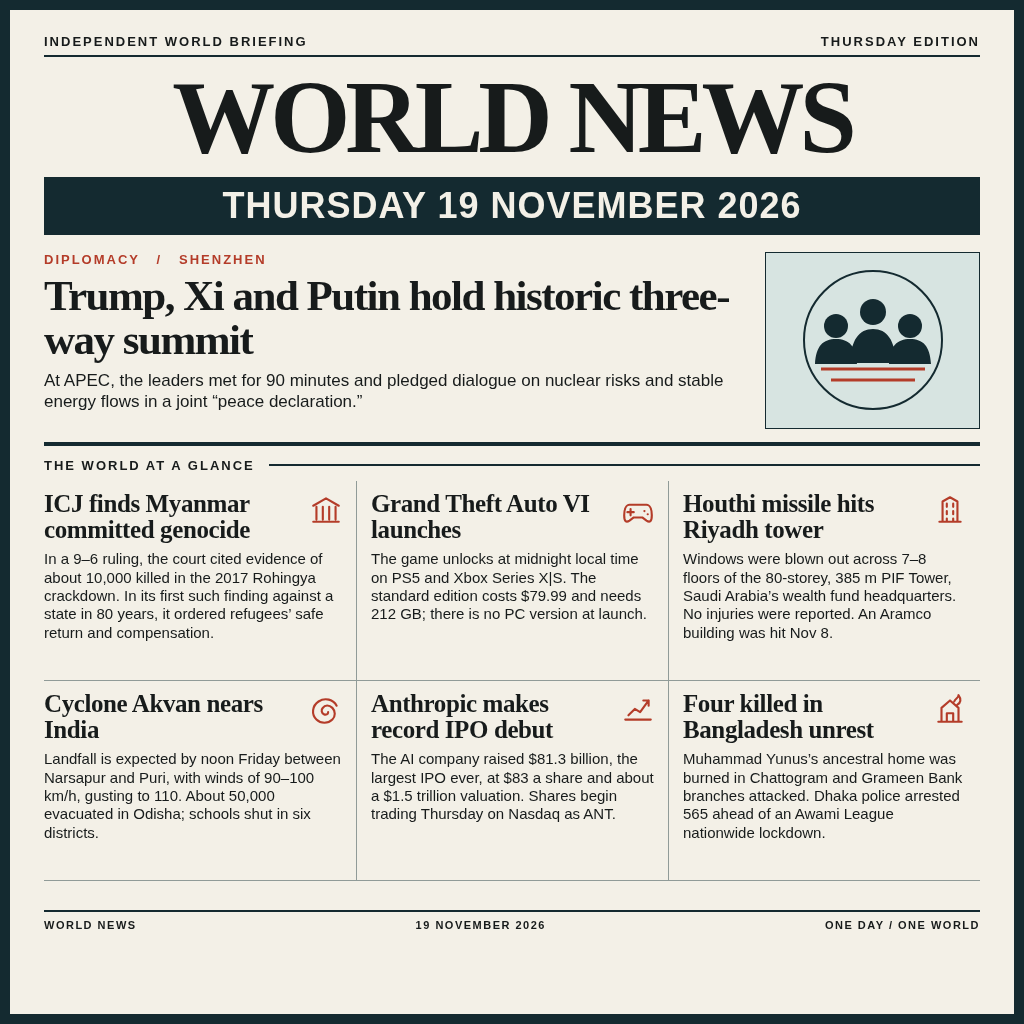
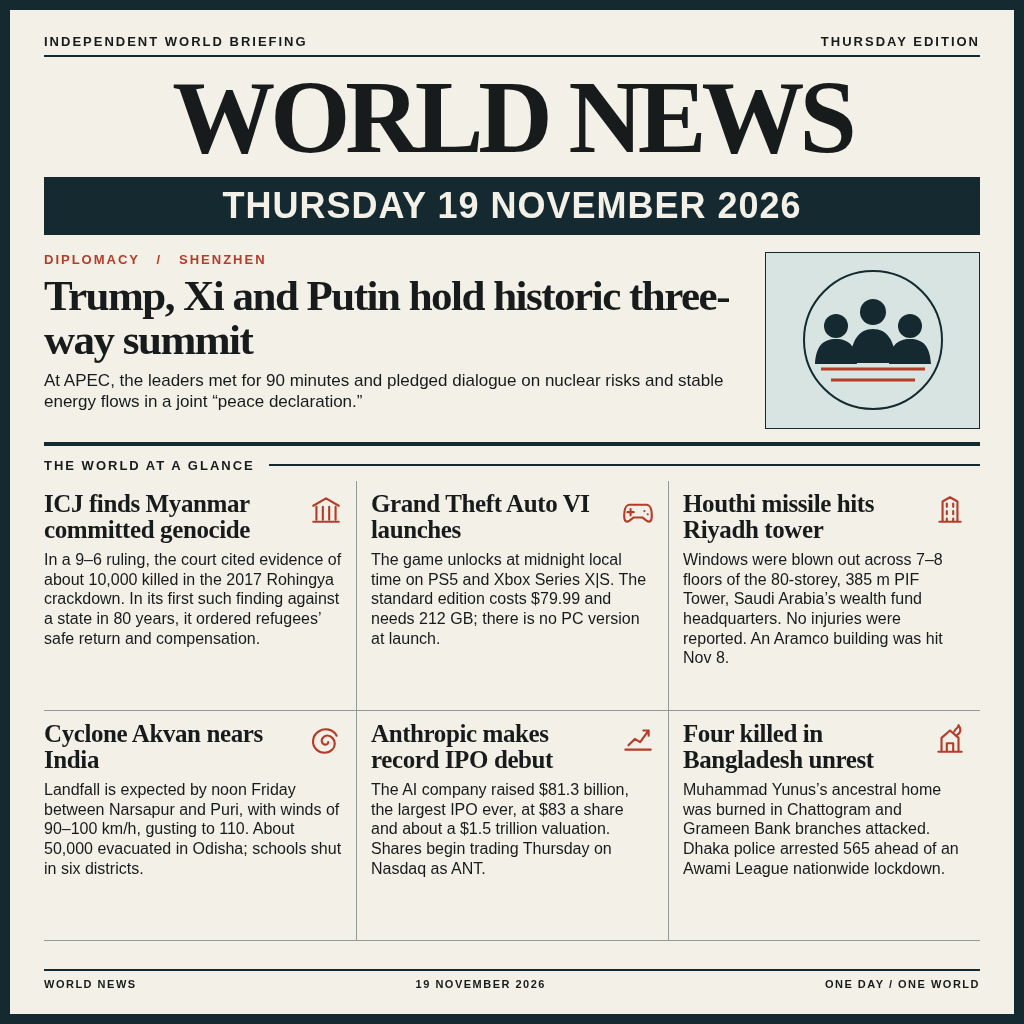
Fill the page: taller story rows, larger deck text, lower footer

diff --git a/news.html b/news.html
@@ -1,7 +1,7 @@
 <!doctype html>
 <html lang="en"><head><meta charset="utf-8"><title>World News — 19 November 2026</title>
 <style>
-*{box-sizing:border-box}body{margin:0;background:#142a30;color:#171b1b;font-family:Arial,sans-serif}.page{position:relative;margin:10px;width:1004px;height:1004px;background:#f3f0e7;padding:24px 34px}.top{display:flex;justify-content:space-between;border-bottom:2px solid #142a30;padding-bottom:6px;font-size:13px;letter-spacing:2px;font-weight:bold}h1{font: bold 103px/.98 Georgia,serif;letter-spacing:-5px;text-align:center;margin:10px 0 9px}.date{background:#142a30;color:#f3f0e7;text-align:center;font-size:36px;line-height:58px;font-weight:800;letter-spacing:1px}.lead{display:grid;grid-template-columns:1fr 215px;gap:25px;padding:17px 0 13px;border-bottom:4px solid #142a30}.kicker{color:#b43c29;font-size:13px;letter-spacing:2px;font-weight:bold;margin-bottom:7px}.lead h2{font:bold 43px/1.02 Georgia,serif;letter-spacing:-1.5px;margin:0 0 9px}.lead p{font-size:17px;line-height:1.23;margin:0}.art{height:177px;background:#d7e4e1;border:1px solid #142a30;display:flex;align-items:center;justify-content:center}.section{display:flex;align-items:center;gap:14px;margin:12px 0 8px;font-size:13px;letter-spacing:2px;font-weight:bold}.section:after{content:'';height:2px;background:#142a30;flex:1}.grid{display:grid;grid-template-columns:repeat(3,1fr);grid-template-rows:200px 200px}.story{padding:10px 14px 8px 0;border-bottom:1px solid #909b98;position:relative}.story:not(:nth-child(3n+1)){border-left:1px solid #909b98;padding-left:14px}.story h3{font:bold 25px/1.03 Georgia,serif;letter-spacing:-.4px;margin:0 42px 8px 0}.story p{font-size:15px;line-height:1.22;margin:0}.icon{position:absolute;right:13px;top:12px;width:34px;height:34px;stroke:#b43c29;fill:none;stroke-width:2;stroke-linecap:round;stroke-linejoin:round}.footer{position:absolute;bottom:83px;left:34px;right:34px;border-top:2px solid #142a30;padding-top:7px;display:flex;justify-content:space-between;font-size:11px;font-weight:bold;letter-spacing:1.5px}
+*{box-sizing:border-box}body{margin:0;background:#142a30;color:#171b1b;font-family:Arial,sans-serif}.page{position:relative;margin:10px;width:1004px;height:1004px;background:#f3f0e7;padding:24px 34px}.top{display:flex;justify-content:space-between;border-bottom:2px solid #142a30;padding-bottom:6px;font-size:13px;letter-spacing:2px;font-weight:bold}h1{font: bold 103px/.98 Georgia,serif;letter-spacing:-5px;text-align:center;margin:10px 0 9px}.date{background:#142a30;color:#f3f0e7;text-align:center;font-size:36px;line-height:58px;font-weight:800;letter-spacing:1px}.lead{display:grid;grid-template-columns:1fr 215px;gap:25px;padding:17px 0 13px;border-bottom:4px solid #142a30}.kicker{color:#b43c29;font-size:13px;letter-spacing:2px;font-weight:bold;margin-bottom:7px}.lead h2{font:bold 43px/1.02 Georgia,serif;letter-spacing:-1.5px;margin:0 0 9px}.lead p{font-size:17px;line-height:1.23;margin:0}.art{height:177px;background:#d7e4e1;border:1px solid #142a30;display:flex;align-items:center;justify-content:center}.section{display:flex;align-items:center;gap:14px;margin:12px 0 8px;font-size:13px;letter-spacing:2px;font-weight:bold}.section:after{content:'';height:2px;background:#142a30;flex:1}.grid{display:grid;grid-template-columns:repeat(3,1fr);grid-template-rows:230px 230px}.story{padding:10px 14px 8px 0;border-bottom:1px solid #909b98;position:relative}.story:not(:nth-child(3n+1)){border-left:1px solid #909b98;padding-left:14px}.story h3{font:bold 25px/1.03 Georgia,serif;letter-spacing:-.4px;margin:0 42px 8px 0}.story p{font-size:16px;line-height:1.22;margin:0}.icon{position:absolute;right:13px;top:12px;width:34px;height:34px;stroke:#b43c29;fill:none;stroke-width:2;stroke-linecap:round;stroke-linejoin:round}.footer{position:absolute;bottom:24px;left:34px;right:34px;border-top:2px solid #142a30;padding-top:7px;display:flex;justify-content:space-between;font-size:11px;font-weight:bold;letter-spacing:1.5px}
 </style></head><body><main class="page"><div class="top"><span>INDEPENDENT WORLD BRIEFING</span><span>THURSDAY EDITION</span></div><h1>WORLD NEWS</h1><div class="date">THURSDAY 19 NOVEMBER 2026</div>
 <section class="lead"><div><div class="kicker">DIPLOMACY &nbsp; / &nbsp; SHENZHEN</div><h2>Trump, Xi and Putin hold historic three-way summit</h2><p>At APEC, the leaders met for 90 minutes and pledged dialogue on nuclear risks and stable energy flows in a joint “peace declaration.”</p></div><div class="art"><svg width="176" height="150" viewBox="0 0 176 150" aria-label="Three leaders at a table"><circle cx="88" cy="75" r="69" fill="none" stroke="#142a30" stroke-width="2"/><path d="M36 104h104M46 115h84" stroke="#b43c29" stroke-width="3"/><g fill="#142a30"><circle cx="51" cy="61" r="12"/><circle cx="88" cy="47" r="13"/><circle cx="125" cy="61" r="12"/><path d="M30 99c1-18 8-25 21-25s20 7 21 25M65 98c1-23 9-34 23-34s22 11 23 34M104 99c1-18 8-25 21-25s20 7 21 25"/></g></svg></div></section>
 <div class="section">THE WORLD AT A GLANCE</div><section class="grid">
